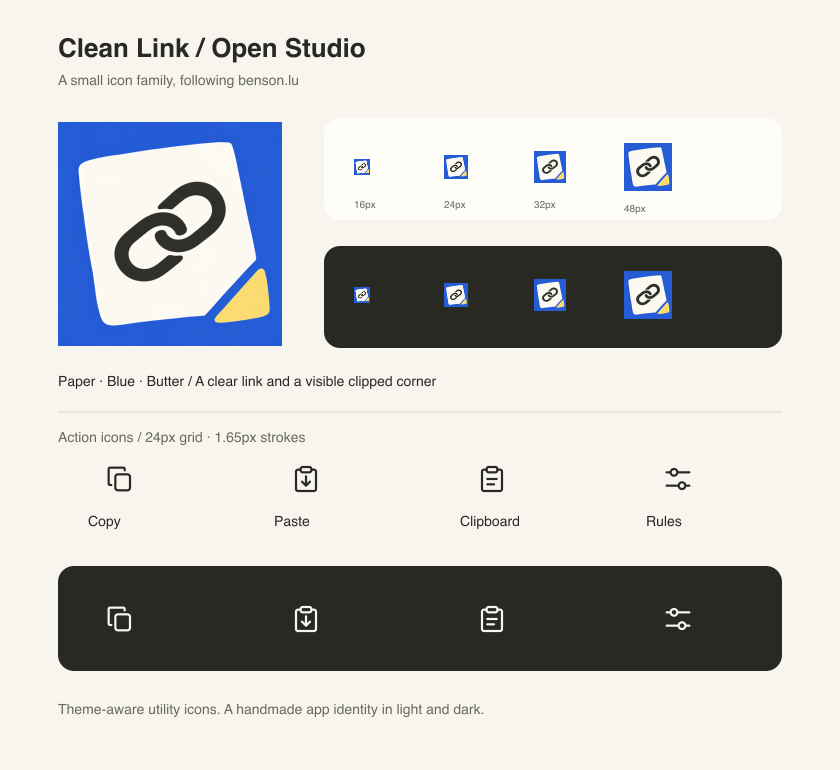
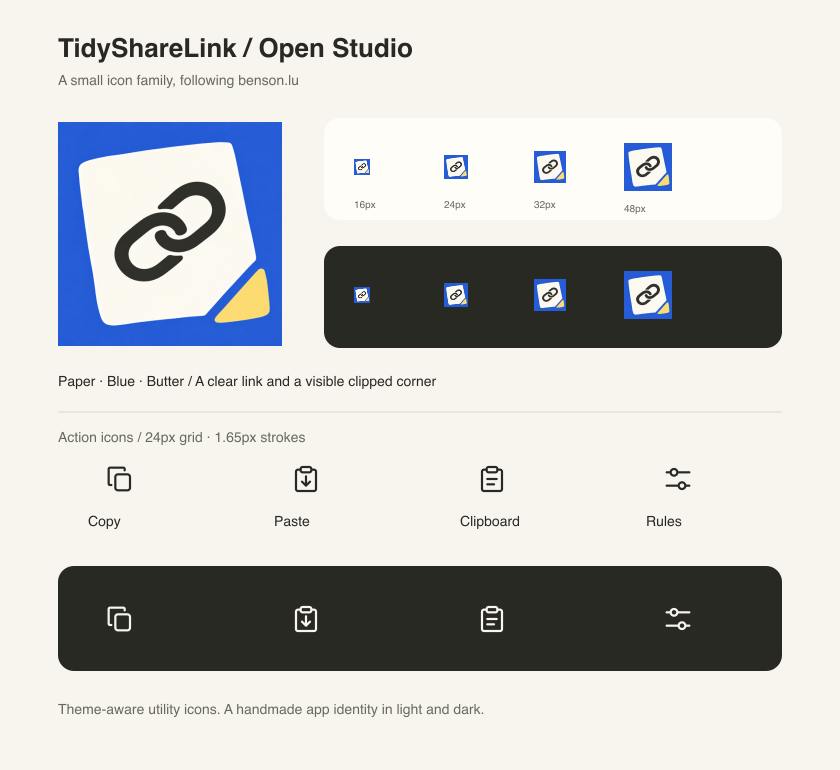
Rebrand as TidyShareLink and refresh product video

Changed region(s): [[0.0619, 0.0312, 0.4952, 0.0935]]

diff --git a/src/clean-link.tsx b/src/clean-link.tsx
@@ -96,13 +96,13 @@ export default function Command() {
 
   return (
     <Form
-      navigationTitle="Clean Link"
+      navigationTitle="Tidy Link"
       isLoading={busy}
       actions={
         <ActionPanel>
           {!settingsError && <ActionPanel.Section>
-            <Action.SubmitForm title="Copy Clean Link" icon={actionIcon("copy")} onSubmit={() => finish("copy")} />
-            <Action title="Paste Clean Link" icon={actionIcon("paste")} shortcut={{ modifiers: ["cmd", "shift"], key: "return" }} onAction={() => finish("paste")} />
+            <Action.SubmitForm title="Copy Link" icon={actionIcon("copy")} onSubmit={() => finish("copy")} />
+            <Action title="Paste Link" icon={actionIcon("paste")} shortcut={{ modifiers: ["cmd", "shift"], key: "return" }} onAction={() => finish("paste")} />
           </ActionPanel.Section>}
           <ActionPanel.Section>
             <Action title="Use Link from Clipboard" icon={actionIcon("clipboard")} shortcut={{ modifiers: ["cmd", "shift"], key: "v" }} onAction={useClipboard} />
@@ -120,8 +120,8 @@ export default function Command() {
         error={submitted ? inputError : undefined}
         autoFocus
       />
-      {settingsError ? <Form.Description title="Check Your Rules" text={`${settingsError} Open Configure Rules (⌘⇧P), then reopen Clean Link.`} /> : <>
-        <Form.Description title="Cleaned Link" text={result?.url ?? "Your cleaned link will appear here."} />
+      {settingsError ? <Form.Description title="Check Your Rules" text={`${settingsError} Open Configure Rules (⌘⇧P), then reopen Tidy Link.`} /> : <>
+        <Form.Description title="Result" text={result?.url ?? "Your link preview will appear here."} />
         {status && <Form.Description title={result?.notice ? "Protected Link" : "Changes"} text={status} />}
       </>}
       <Form.Separator />

diff --git a/README.md b/README.md
@@ -1,7 +1,7 @@
 <p align="center">
-  <img src="assets/clean-link-final.png" width="88" height="88" alt="Clean Link: cream clipped paper with an ink link and a yellow corner on blue">
+  <img src="assets/clean-link-final.png" width="88" height="88" alt="TidyShareLink: cream clipped paper with an ink link and a yellow corner on blue">
 </p>
-<h1 align="center">Clean Link</h1>
+<h1 align="center">TidyShareLink</h1>
 <p align="center">Cleaner links, ready to share.</p>
 <p align="center">A free, open-source Raycast extension that removes common tracking parameters on your Mac.<br>Preview what changes, then copy or paste.</p>
 <p align="center">
@@ -15,9 +15,9 @@
   <a href="https://github.com/bblurock/clean-link/actions/workflows/ci.yml"><img src="https://github.com/bblurock/clean-link/actions/workflows/ci.yml/badge.svg" alt="Automated checks"></a>
 </p>
 
-<p align="center"><a href="https://github.com/bblurock/clean-link/releases/download/v0.1.0/clean-link-demo.mp4"><img src="docs/images/demo.gif" width="750" alt="Recorded Clean Link demo: remove fbclid, preserve a YouTube timestamp while removing si, and view copy or paste actions."></a></p>
+<p align="center"><a href="https://github.com/bblurock/clean-link/releases/download/v0.1.0/tidysharelink-product-video.mp4"><img src="docs/images/demo.gif" width="750" alt="TidyShareLink demo: copy a browser URL, preview tracking-parameter removal in Raycast, then copy the result back to the browser."></a></p>
 
-<p align="center">A 25-second recording of Clean Link in Raycast, made with <a href="https://github.com/getopenscreen/openscreen">OpenScreen</a>. <a href="https://github.com/bblurock/clean-link/releases/download/v0.1.0/clean-link-demo.mp4">Full-quality video (MP4)</a> · <a href="docs/images/preview.jpg">Static screenshot</a>.</p>
+<p align="center">A 10-second walkthrough: copy a link, tidy it in Raycast, and paste the result. Edited with <a href="https://github.com/getopenscreen/openscreen">OpenScreen</a>. <a href="https://github.com/bblurock/clean-link/releases/download/v0.1.0/tidysharelink-product-video.mp4">Full-quality video (MP4)</a> · <a href="docs/images/preview.jpg">Static screenshot</a>.</p>
 
 ```text
 Before   https://example.com/?id=42&fbclid=demo
@@ -50,15 +50,15 @@ No link fetching, analytics, or URL history of its own. Cleaning runs locally.
    npm run dev
    ```
 
-3. Open Raycast, search **Clean Link**, and try `https://example.com/?id=42&fbclid=demo`.
+3. Open Raycast, search **Tidy Link**, and try `https://example.com/?id=42&fbclid=demo`.
 
-Once the command is available, stop the development process with **Ctrl+C**. The installed command stays in Raycast, including after restarting your Mac. This follows [Raycast's local extension workflow](https://developers.raycast.com/basics/create-your-first-extension). If Raycast asks you to sign in for developer setup, follow its prompt; Clean Link has no separate account.
+Once the command is available, stop the development process with **Ctrl+C**. The installed command stays in Raycast, including after restarting your Mac. This follows [Raycast's local extension workflow](https://developers.raycast.com/basics/create-your-first-extension). If Raycast asks you to sign in for developer setup, follow its prompt; TidyShareLink has no separate account.
 
 Prefer downloading a ZIP? Use **Code → Download ZIP** on GitHub, extract it, open a terminal in that folder, and start at `npm ci`.
 
 ### Use it
 
-Opening Clean Link previews a complete HTTP/HTTPS URL from your clipboard when that preference is enabled. You can also paste a link into the **Link** field. Review the result, then choose an action:
+Opening **Tidy Link** previews a complete HTTP/HTTPS URL from your clipboard when that preference is enabled. You can also paste a link into the **Link** field. Review the result, then choose an action:
 
 | Action | Shortcut |
 | --- | --- |
@@ -74,11 +74,11 @@ Clipboard preview never automatically copies or pastes.
 
 To update a Git checkout, run `git pull --ff-only`, `npm ci`, and `npm run dev` from its folder, then stop with Ctrl+C once registered. Keep any local changes safe before updating. ZIP installations can download and extract the new version, then repeat installation. There is no automatic update checker.
 
-To remove the extension, open **Raycast Settings → Extensions**, select **Clean Link**, and use its removal action. Deleting the source folder alone does not remove the registered command.
+To remove the extension, open **Raycast Settings → Extensions**, select **TidyShareLink**, and use its removal action. Deleting the source folder alone does not remove the registered command.
 
 ## Customize your rules
 
-Open **Configure Rules** with **⌘⇧P**, or find Clean Link in Raycast Settings → Extensions. Reopen the command after changing preferences.
+Open **Configure Rules** with **⌘⇧P**, or find TidyShareLink in Raycast Settings → Extensions. Reopen the command after changing preferences.
 
 | Setting | Example | Behavior |
 | --- | --- | --- |

diff --git a/README.zh-TW.md b/README.zh-TW.md
@@ -1,14 +1,14 @@
 <p align="center">
-  <img src="assets/clean-link-final.png" width="88" height="88" alt="Clean Link：藍底、米白剪角紙張、深色連結與黃色紙角">
+  <img src="assets/clean-link-final.png" width="88" height="88" alt="TidyShareLink：藍底、米白剪角紙張、深色連結與黃色紙角">
 </p>
-<h1 align="center">Clean Link</h1>
+<h1 align="center">TidyShareLink</h1>
 <p align="center">整理好連結，再分享。</p>
 <p align="center">免費、開源的 Raycast 擴充功能，在 Mac 本機移除常見追蹤參數。<br>先看清楚變更，再複製或貼上。</p>
 <p align="center"><a href="#安裝">在 Mac 安裝</a> · <a href="README.md">English</a> · <a href="#隱私與限制">隱私</a> · <a href="CONTRIBUTING.md">參與開發</a></p>
 
-<p align="center"><a href="https://github.com/bblurock/clean-link/releases/download/v0.1.0/clean-link-demo.mp4"><img src="docs/images/demo.gif" width="750" alt="Clean Link 實錄：移除 fbclid、移除 si 並保留 YouTube 時間戳記，以及顯示複製與貼上選項。"></a></p>
+<p align="center"><a href="https://github.com/bblurock/clean-link/releases/download/v0.1.0/tidysharelink-product-video.mp4"><img src="docs/images/demo.gif" width="750" alt="TidyShareLink 實錄：複製瀏覽器網址，在 Raycast 預覽移除追蹤參數，再將整理後的連結貼回瀏覽器。"></a></p>
 
-<p align="center">使用 <a href="https://github.com/getopenscreen/openscreen">OpenScreen</a> 錄製的 25 秒 Raycast 操作示範。<a href="https://github.com/bblurock/clean-link/releases/download/v0.1.0/clean-link-demo.mp4">高畫質影片（MP4）</a> · <a href="docs/images/preview.jpg">靜態截圖</a>。</p>
+<p align="center">10 秒操作示範：複製連結、在 Raycast 整理，再貼上結果。使用 <a href="https://github.com/getopenscreen/openscreen">OpenScreen</a> 編輯。<a href="https://github.com/bblurock/clean-link/releases/download/v0.1.0/tidysharelink-product-video.mp4">高畫質影片（MP4）</a> · <a href="docs/images/preview.jpg">靜態截圖</a>。</p>
 
 ```text
 整理前   https://example.com/?id=42&fbclid=demo
@@ -41,15 +41,15 @@
    npm run dev
    ```
 
-3. 開啟 Raycast，搜尋 **Clean Link**，試貼 `https://example.com/?id=42&fbclid=demo`。
+3. 開啟 Raycast，搜尋 **Tidy Link**，試貼 `https://example.com/?id=42&fbclid=demo`。
 
-指令出現後，可以在終端機按 **Ctrl+C** 停止開發程序。擴充功能會留在 Raycast 中，重新啟動 Mac 後仍可使用，無須讓終端機持續執行。這是 [Raycast 支援的本機開發流程](https://developers.raycast.com/basics/create-your-first-extension)。若 Raycast 要求登入以完成開發設定，請依提示操作；Clean Link 沒有另外的帳號。
+指令出現後，可以在終端機按 **Ctrl+C** 停止開發程序。擴充功能會留在 Raycast 中，重新啟動 Mac 後仍可使用，無須讓終端機持續執行。這是 [Raycast 支援的本機開發流程](https://developers.raycast.com/basics/create-your-first-extension)。若 Raycast 要求登入以完成開發設定，請依提示操作；TidyShareLink 沒有另外的帳號。
 
 也可以在 GitHub 選擇 **Code → Download ZIP**，解壓縮後在該資料夾開啟終端機，從 `npm ci` 開始。
 
 ## 使用方式
 
-開啟 Clean Link 時，若已啟用剪貼簿預覽，會載入剪貼簿中的完整 HTTP/HTTPS 網址。也可以自行在 **Link** 欄位貼上。確認結果後，再選擇動作：
+開啟 **Tidy Link** 時，若已啟用剪貼簿預覽，會載入剪貼簿中的完整 HTTP/HTTPS 網址。也可以自行在 **Link** 欄位貼上。確認結果後，再選擇動作：
 
 | 動作 | 快捷鍵 |
 | --- | --- |
@@ -65,11 +65,11 @@
 
 以 Git 安裝的使用者，可在專案資料夾依序執行 `git pull --ff-only`、`npm ci`、`npm run dev`，完成註冊後按 Ctrl+C。更新前請先保護自己的本機修改。使用 ZIP 安裝時，下載新版並重新執行安裝流程。目前沒有自動更新檢查。
 
-移除時，開啟 **Raycast Settings → Extensions**，選取 **Clean Link** 並使用移除功能。只刪除原始碼資料夾，不會移除已註冊的指令。
+移除時，開啟 **Raycast Settings → Extensions**，選取 **TidyShareLink** 並使用移除功能。只刪除原始碼資料夾，不會移除已註冊的指令。
 
 ## 自訂規則
 
-按 **⌘⇧P** 開啟 **Configure Rules**，或到 Raycast Settings → Extensions 找到 Clean Link。修改設定後，請重新開啟指令。
+按 **⌘⇧P** 開啟 **Configure Rules**，或到 Raycast Settings → Extensions 找到 TidyShareLink。修改設定後，請重新開啟指令。
 
 | 設定 | 範例 | 用途 |
 | --- | --- | --- |

diff --git a/CONTRIBUTING.md b/CONTRIBUTING.md
@@ -1,4 +1,4 @@
-# Contributing to Clean Link
+# Contributing to TidyShareLink
 
 Small, well-explained improvements are welcome: a tracking rule with evidence, a clearer message, a reproducible bug, or a Traditional Chinese translation correction.
 
@@ -13,7 +13,7 @@ npm test
 npm run dev
 ```
 
-Open **Clean Link** in Raycast to check the interface. After editing, run `npm run build` to check the production bundle. The Raycast CLI writes the local extension into your Raycast configuration directory.
+Open **Tidy Link** in Raycast to check the interface. After editing, run `npm run build` to check the production bundle. The Raycast CLI writes the local extension into your Raycast configuration directory.
 
 ## Changes to rules
 

diff --git a/design/ICONS.md b/design/ICONS.md
@@ -1,6 +1,6 @@
-# Clean Link icons
+# TidyShareLink icons
 
-Clean Link follows Benson's Open Studio direction: warm paper, confident ink, a clear blue field, and a slightly irregular silhouette. It should feel human and remain legible in a small Raycast row.
+TidyShareLink follows Benson's Open Studio direction: warm paper, confident ink, a clear blue field, and a slightly irregular silhouette. It should feel human and remain legible in a small Raycast row.
 
 ## App icon
 

diff --git a/CHANGELOG.md b/CHANGELOG.md
@@ -1,5 +1,10 @@
 # Changelog
 
+## Unreleased
+
+- Rebrand the extension as TidyShareLink, with the Tidy Link command and Copy Link / Paste Link actions.
+- Refresh the product video and English and Traditional Chinese documentation.
+
 ## 0.1.0 — 2026-09-13
 
 First public source release.
